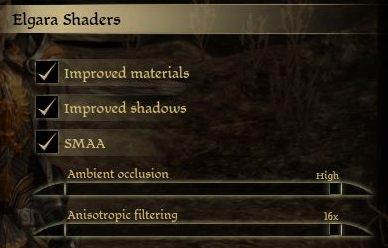
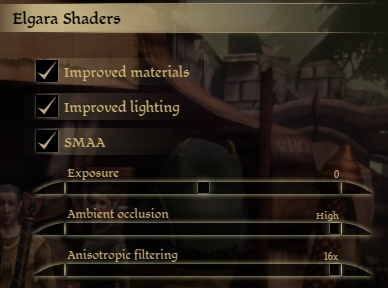
Release 0.2.0: the version, the changelog, the guide and the mod page
The version in CMakeLists.txt and vcpkg.json. The changelog's 0.2.0: Improved
lighting in place of Improved shadows, the Exposure slider, and hair kept
out of the ambient occlusion (#28). The README, the guide's About and Options
pages and the mod page say Improved lighting and Exposure, and the guide's
picture of the Video tab is the section as it is now. MOD_PAGE.bbcode, the
Nexus page's description, is in the repository. CLAUDE.md says what is
released and what stays on the dev branch.

Claude-Session: https://claude.ai/code/session_01GxFoa1cjfUcan7sAZQbxPi

diff --git a/README.md b/README.md
@@ -4,15 +4,16 @@ Better shaders, shadows and anti-aliasing for Dragon Age: Origins, through the g
 
 Download it from [Nexus Mods](https://www.nexusmods.com/dragonage/mods/7061) or the [releases](https://github.com/Whocares66-Dev/DAOElgaraShaders/releases); the guide is at <https://whocares66-dev.github.io/DAOElgaraShaders/>. It needs [DAOLib](https://www.nexusmods.com/dragonage/mods/7052) 0.3.0 or later.
 
-Five options on the Video tab of the game's options screen, each one on by default:
+Six options on the Video tab of the game's options screen:
 
 - **Improved materials**: metal, gilt and polished stone mirror and scatter light as what they are made of, normal maps shape the light in shade and indoors, and bright highlights are rolled off rather than clipped. The game's own materials, its DLC's and Awakening's come with the plugin; a mod's are worked out from the game's own item data as the game starts.
-- **Improved lighting**: one sun out of doors: the level casts its shadows as the sun falls, on characters too (the plugin's own cascaded shadow maps, soft-edged), characters take the sun's light and what the ground gives back, and the haze glows toward the sun.
+- **Improved lighting**: one sun out of doors: the level casts its shadows as the sun falls, on characters too (the plugin's own cascaded shadow maps, soft-edged), characters take the sun's light and what the ground gives back, the haze glows toward the sun, and the darkest shade is lifted a little.
 - **SMAA**: smooths the edges the game's own anti-aliasing misses; it works with that or without it.
+- **Exposure** (-0.5 to +0.5, 0 by default): how bright the picture is, in stops.
 - **Ambient occlusion** (Off, Low, Medium, High): shade in corners, creases and under things.
 - **Anisotropic filtering** (Off to 16x): textures stay sharp where they are seen at a slant.
 
-It rebuilds the game's shaders from the installed game at build time. [dev/NOTES.md](dev/NOTES.md) says how the game's lighting works; the history until 2026-10-11 is [issue 1](https://github.com/Whocares66-Dev/DAOElgaraShaders/issues/1). The lighting overhaul is on the `dev` branch.
+It rebuilds the game's shaders from the installed game at build time. [dev/NOTES.md](dev/NOTES.md) says how the game's lighting works; the history until 2026-10-11 is [issue 1](https://github.com/Whocares66-Dev/DAOElgaraShaders/issues/1).
 
 ## Building
 

diff --git a/CLAUDE.md b/CLAUDE.md
@@ -10,7 +10,7 @@ Looking good is the goal: more realistic lighting, better materials, better shad
 
 The bar, since 2026-10-11: "something on the quality of a Minecraft visual overhaul" (the user, with a shader pack's before and after: a low sun, lit haze, soft shadows, bloom). The light probes were judged "good infra work" that "doesn't seem to make any significant visual difference"; what is wanted is "some kind of lighting overhaul to really make the scenes look realistic and punchy". `dev/NOTES.md`'s "Not done" has the steps in the order meant.
 
-**The first release (issue 23, 2026-10-14) is a smaller scope**, on master: Improved materials (each material lit as what it is made of, by `data/materials.ini`; normal maps shaping baked and ambient light; highlights rolled off in the 16-bit scene), Improved shadows (16-tap filter, 2048 maps, the sun's shadow on figures), SMAA, ambient occlusion and anisotropic filtering, each an option on the Video tab. The lighting work (the relighter, light probes and their baker, the engine's light chooser, sun, sky, haze, shafts, glow, fire, the looks and the per-level tuning) is on the `dev` branch, out of the release for now.
+**Released (0.1.x from issue 23, 2026-10-14; 0.2.0 from 2026-10-17)**, on master: Improved materials (each material lit as what it is made of, by `data/materials.ini`; normal maps shaping baked and ambient light; highlights rolled off in the 16-bit scene), Improved lighting (from 0.2.0, in place of Improved shadows: out of doors one sun, the level casting into the plugin's own shadow maps, figures lit by baked probes and that sun, the haze lit by it, the shade lifted a little), SMAA, Exposure, ambient occlusion and anisotropic filtering, each an option on the Video tab. The rest of the lighting work (the relighter, the engine's light chooser, sky, shafts, glow, fire, the looks and the per-level tuning) is on the `dev` branch, out of the release.
 
 ## Layout
 

diff --git a/CHANGELOG.md b/CHANGELOG.md
@@ -1,5 +1,12 @@
 # Changelog
 
+## 0.2.0
+
+- Improved lighting replaces Improved shadows. Out of doors one sun lights the level and the characters alike: the level casts its shadows as the sun falls (the plugin's own soft-edged shadow maps), on characters too, and a character walking into shade goes dark with the ground around it. Characters take their light from probes baked from the level's own lighting, and the haze glows toward the sun. Shade is lifted a little, so it reads as shade rather than black.
+- Exposure: a new slider on the Video tab, -0.5 to +0.5 in quarter stops.
+- Hair no longer darkens the face under it with ambient occlusion (#28).
+- Needs DAOLib 0.3.0 or newer.
+
 ## 0.1.2
 
 - Water is drawn as the game draws it: lakes and rivers were a white or electric-blue glare with rainbow fringes in places, worst by night (Lake Calenhad's docks) and also by day (Redcliffe's lake), whatever the options were (#25).

diff --git a/docs/options.md b/docs/options.md
@@ -14,5 +14,6 @@ On the **Video** tab of the options screen.
 | **Improved materials** | Metal reflects its surroundings; leather, cloth and stone stay matte. | On |
 | **Improved lighting** | More natural sunlight, shadows and haze. | On |
 | **SMAA** | Smooths jagged edges. | On |
+| **Exposure** | How bright the picture is: -0.5 to +0.5. | 0 |
 | **Ambient occlusion** | Shade in corners and creases: Off, Low, Medium or High. | High |
 | **Anisotropic filtering** | Sharper ground and walls at a slant: Off to 16x. | 16x |

diff --git a/docs/index.md b/docs/index.md
@@ -13,6 +13,7 @@ Better materials, shadows and anti-aliasing for Dragon Age: Origins.
 - **Improved materials**: metal looks like metal, in mods too.
 - **Improved lighting**: more natural sunlight, shadows and haze.
 - **SMAA**: smoother edges.
+- **Exposure**: a brighter or darker picture.
 - **Ambient occlusion**: shade in corners and creases.
 - **Anisotropic filtering**: sharper ground and walls at a slant.
 
